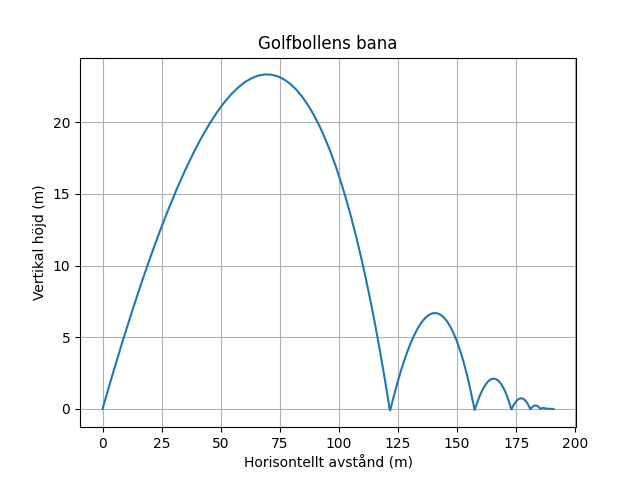
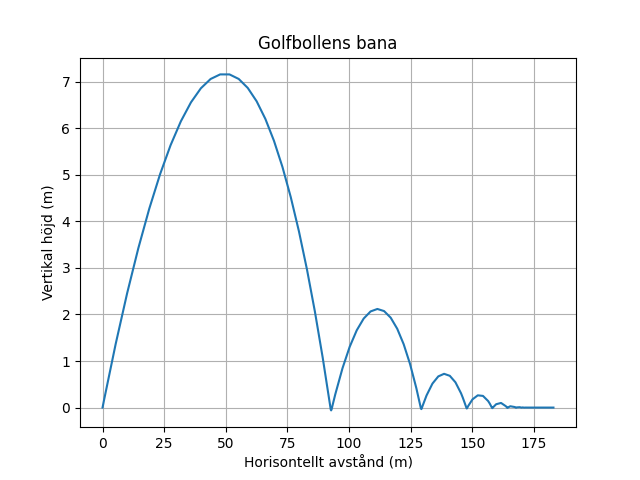
Steg 3, max-avstånd på 20s 182.92 m

diff --git a/steg3.py b/steg3.py
@@ -8,7 +8,7 @@ xpos = 0
 ypos = 0
 
 initialvelocity = 50
-angle = 30
+angle = 15
 
 xspeed = 0
 yspeed = 0
@@ -17,7 +17,7 @@ g = -9.81
 timeinair = 0
 ballmass = 46e-3
 gforce = ballmass*g
-windspeed = -5
+windspeed = 0
 airdensity = 1.225
 dragkoefficient = 0.25
 area = 1430e-6
@@ -25,6 +25,8 @@ area = 1430e-6
 k = 1000
 c = 2
 my = 0.15
+
+xhal = 190
 
 anglerad = math.radians(angle)
 xspeed = math.cos(anglerad)*initialvelocity
@@ -72,14 +74,13 @@ def forcecalc(t, u):
 
 solution = i.solve_ivp(
     fun=forcecalc,
-    t_span = [0,10],
+    t_span = [0,20],
     y0=u0,
     max_step=0.1
 )
 
 x_positions = solution.y[0]
 y_positions = solution.y[1]
-
 
 # test för del 1 i steg 2
 # print(f"x-positions = {x_positions} \n y-positions = {y_positions}")
@@ -92,3 +93,4 @@ plt.ylabel('Vertikal höjd (m)')
 plt.grid(True)
 plt.savefig("steg2-graf.png")
 plt.show()
+print(x_positions[-1])
